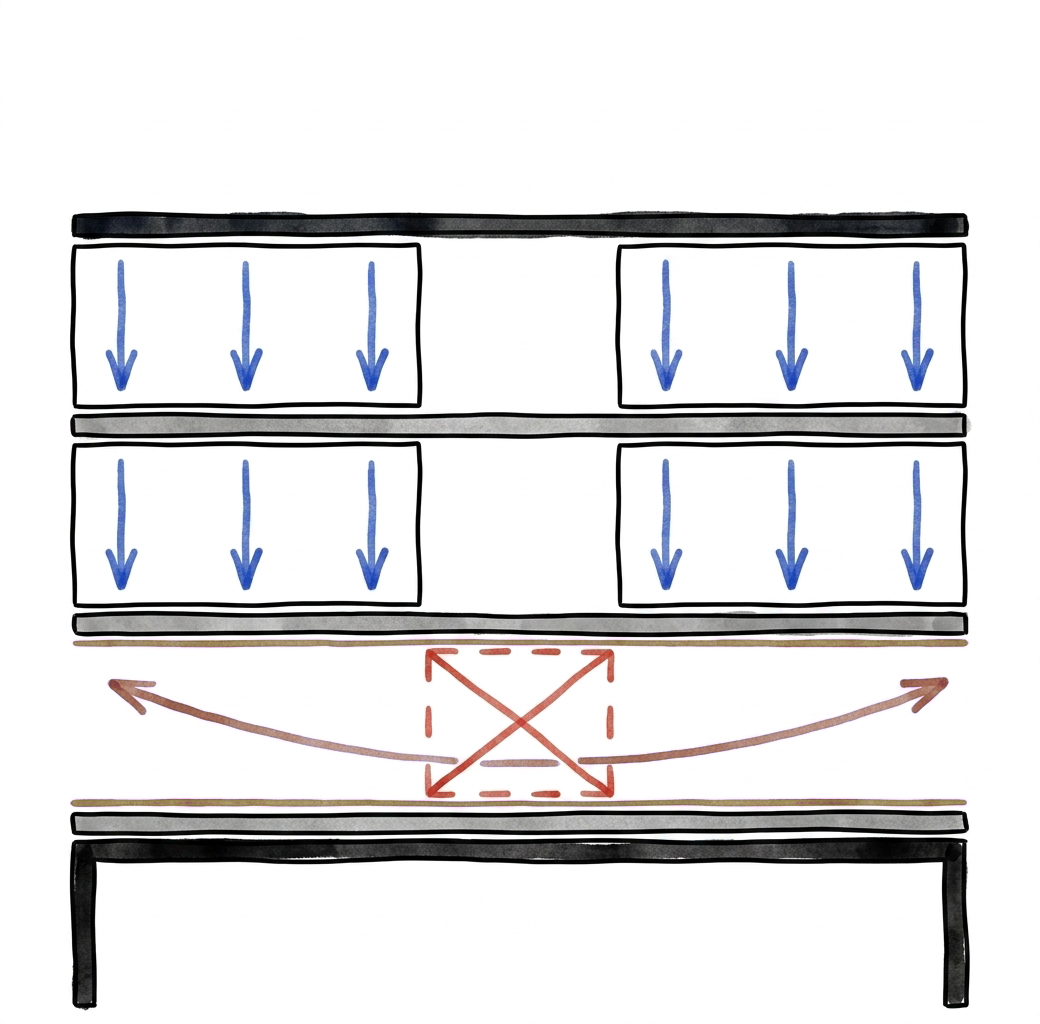
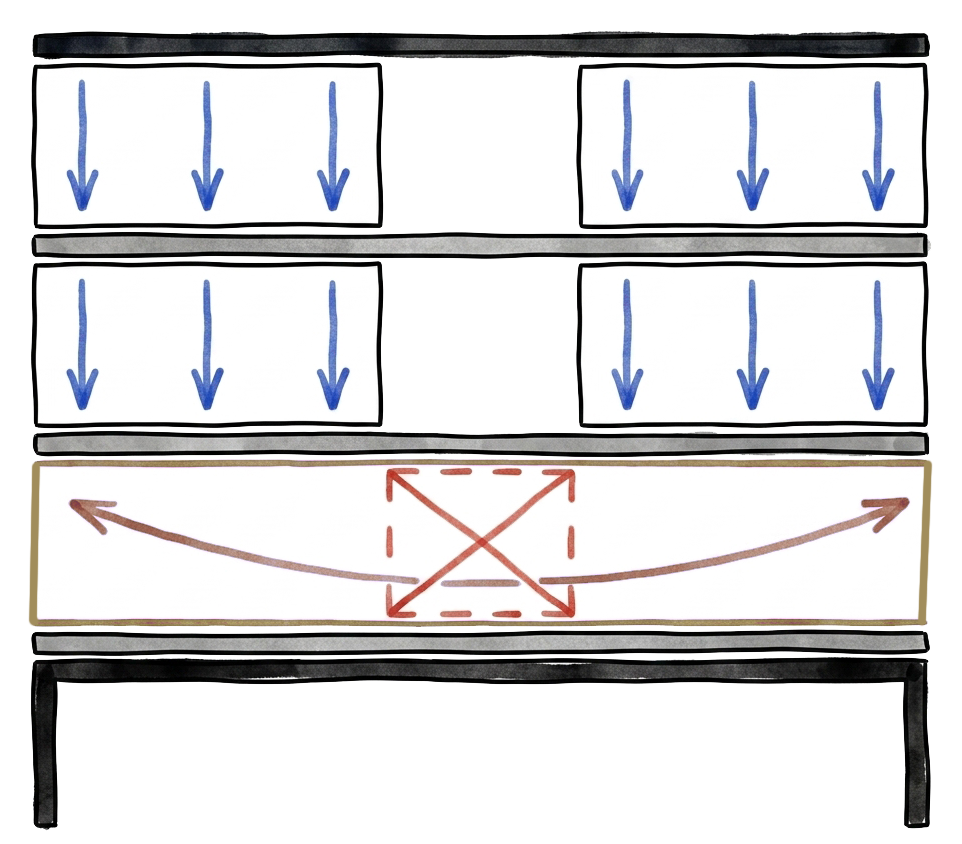
Update deck to v28

diff --git a/index.html b/index.html
@@ -657,10 +657,10 @@
     section[data-label="29 Thank you"][data-deck-active] [data-om-id="b61726ec:1072"]{animation-delay:2.3s;}
   }
 </style>
-  <meta name="deck-version" content="v27">
+  <meta name="deck-version" content="v28">
   <meta name="web-version" content="1.6.0">
-  <meta name="deck-source" content="SpatialTimber Deck v27.html">
-  <meta name="deck-built" content="2026-06-15T08:18:14.796Z">
+  <meta name="deck-source" content="SpatialTimber Deck v28.html">
+  <meta name="deck-built" content="2026-06-15T09:03:42.049Z">
   <link rel="stylesheet" href="fonts.css">
   <style id="om-bullet-fix">/* font-independent eyebrow bullet — Söhne "●" fallback fix */
   .acc.om-acc-dot{display:inline-block;width:.6em;height:.6em;border-radius:50%;background:var(--accent);color:transparent;vertical-align:.02em;overflow:hidden;line-height:0;}</style>
@@ -823,7 +823,7 @@
         <div class="kpi wd-anim wd-d4" data-om-id="b61726ec:106">
           <div class="kpi-tag" data-om-id="b61726ec:107">Sprawl vs. densification</div>
           <div class="kpi-num" data-om-id="b61726ec:108" style="color: rgb(217, 119, 87);"><span class="mono" data-om-id="b61726ec:109">~10</span><span style="font-size:64px; vertical-align:14px;" data-om-id="b61726ec:110"> ×</span></div>
-          <div class="kpi-caption" data-om-id="b61726ec:111">Cities grew outward <span style="color: rgb(20, 20, 19);" data-om-id="978cbabb:149">~10×</span> faster than they densified inward — densification was just ~9 % of Europe's urban land use (2006–2012).</div>
+          <div class="kpi-caption" data-om-id="b61726ec:111">European cities grew outward <span style="color: rgb(20, 20, 19);" data-om-id="978cbabb:149">~10×</span> faster than they densified inward (2006–2012).</div>
         </div>
       </div>
     </div>
@@ -962,13 +962,12 @@
     section[data-deck-slide="17"][data-deck-active] .st-bullets > *:nth-child(4),
     section[data-deck-slide="17"][data-deck-active] .st-bullets > *:nth-child(5){ animation-delay:2.9s; }
 
-    /* 19 Demo current — reliability ceiling / two levers / take-home, ~1s apart */
-    section[data-deck-slide="18"][data-deck-active] .st-bullets > *:nth-child(1){ animation-delay:.9s; }
+    /* 19 Demo current — media box first, then reliability ceiling / two levers / take-home, ~1s apart */
+    section[data-deck-slide="18"][data-deck-active] .st-media{ animation-delay:.2s; }
+    section[data-deck-slide="18"][data-deck-active] .st-bullets > *:nth-child(1){ animation-delay:1.1s; }
     section[data-deck-slide="18"][data-deck-active] .st-bullets > *:nth-child(2),
-    section[data-deck-slide="18"][data-deck-active] .st-bullets > *:nth-child(3){ animation-delay:1.9s; }
-    section[data-deck-slide="18"][data-deck-active] .st-bullets > *:nth-child(4){ animation-delay:2.9s; }
-    /* media box appears last, after all bullets */
-    section[data-deck-slide="18"][data-deck-active] .st-media{ animation-delay:3.6s; }
+    section[data-deck-slide="18"][data-deck-active] .st-bullets > *:nth-child(3){ animation-delay:2.1s; }
+    section[data-deck-slide="18"][data-deck-active] .st-bullets > *:nth-child(4){ animation-delay:3.1s; }
 
     /* 20 Furnishability — intro + check + score, ~1s apart; reference last */
     section[data-deck-slide="19"][data-deck-active] .st-bullets > *:nth-child(1){ animation-delay:.9s; }
@@ -1410,8 +1409,8 @@ We know how to build this.</p>
     <div class="eyebrow mute" data-om-id="b61726ec:362">Adapters — performance gap</div>
     <h1 class="title" style="margin-top:14px; font-style:italic;" data-om-id="b61726ec:363">No answers to imitate? <br data-om-id="b61726ec:364br"><em data-om-id="b61726ec:364">Learn through <span style="color: #d97757" data-om-id="978cbabb:557">feedback.</span></em></h1>
 
-    <div style="flex:1; display:grid; grid-template-columns: 1fr 1.2fr; gap:60px; margin-top:24px; align-items:center;" data-om-id="b61726ec:365">
-      <div class="st16-seq" style="display:flex; flex-direction:column; gap:18px;" data-om-id="b61726ec:366">
+    <div style="flex:1; display:grid; grid-template-columns: 1.2fr 1fr; gap:60px; margin-top:24px; align-items:center;" data-om-id="b61726ec:365">
+      <div class="st16-seq" style="order:2; display:flex; flex-direction:column; gap:18px;" data-om-id="b61726ec:366">
         <p class="body" style="font-size:24px; line-height:1.32; font-style:italic; color:var(--mute);" data-om-id="b61726ec:367">The Swiss dataset teaches the model what a floor plan looks like, not what we consider a good one. </p>
 
         <div class="rule thin" data-om-id="b61726ec:368"></div>
@@ -1435,12 +1434,12 @@ We know how to build this.</p>
             <span class="body" style="font-size:22px; line-height:1.3;" data-om-id="b61726ec:383">Can each room fit the furniture it needs?</span>
           </div>
           <div style="display:grid; grid-template-columns: 220px 1fr; gap:18px; padding:10px 0;" data-om-id="b61726ec:384">
-            <span class="mono" style="font-size:22px; font-weight:700; color:var(--accent);" data-om-id="b61726ec:385">Structural utility<sup style="font-size:13px; font-weight:500;" data-om-id="5969125a:504">2</sup></span>
+            <span class="mono" style="font-size:22px; font-weight:700; color:var(--accent);" data-om-id="b61726ec:385">Structural utility</span>
             <span class="body" style="font-size:22px; line-height:1.3;" data-om-id="b61726ec:386">Are loads carried efficiently by the wall layout?</span>
           </div>
         </div>
 
-        <p class="ph-note" style="margin-top:-4px; font-size:14px; line-height:1.45;" data-om-id="5969125a:506"><sup data-om-id="5969125a:507">1</sup>&nbsp;No off-the-shelf evaluator exists — we develop one in this project. &nbsp;&nbsp;<sup data-om-id="5969125a:508">2</sup>&nbsp;Exists only as FE analysis (minutes per query); we train a surrogate to make it loop-fast.</p>
+        <p class="ph-note" style="margin-top:-4px; font-size:14px; line-height:1.45;" data-om-id="5969125a:506"><sup data-om-id="5969125a:507">1</sup>&nbsp;No off-the-shelf evaluator exists — we develop one in this project.</p>
 
         <div class="rule thin" data-om-id="b61726ec:387"></div>
         <div class="eyebrow" data-om-id="b61726ec:388"><span class="acc om-acc-dot" data-om-id="b61726ec:389">●</span>&nbsp;&nbsp;Fast feedback loop</div>
@@ -1448,7 +1447,7 @@ We know how to build this.</p>
       </div>
 
       <!-- Pictogram: learning through feedback — click / press → cross-fades to annotated diagram -->
-      <div id="s14-media-box" class="st-media" data-s14-state="picto" style="border:1px solid var(--ink); padding:24px 36px; display:flex; flex-direction:column; align-items:stretch; justify-content:center; gap:12px; background:#faf9f5; cursor:pointer;" data-om-id="b61726ec:392">
+      <div id="s14-media-box" class="st-media" data-s14-state="picto" style="order:1; border:1px solid var(--ink); padding:24px 36px; display:flex; flex-direction:column; align-items:stretch; justify-content:center; gap:12px; background:#faf9f5; cursor:pointer;" data-om-id="b61726ec:392">
         <div class="mono mute" style="font-size:16px; letter-spacing:0.12em; display:flex; justify-content:space-between; align-items:center;" data-om-id="b61726ec:393">
           <span id="s14-label-picto" data-om-id="5969125a:516">REINFORCEMENT · LEARN FROM FEEDBACK</span>
           <span id="s14-label-hint" class="mono mute" style="font-size:13px; letter-spacing:0.18em; opacity:0.55;" data-om-id="5969125a:517">CLICK / → TO REVEAL</span>
@@ -1524,22 +1523,22 @@ We know how to build this.</p>
 <!-- =================== DEMO CURRENT (duplicate — restored to original position) =================== -->
 <section data-label="19 Demo current" data-om-id="b61726ec:447" data-screen-label="19 19 Demo current" data-om-validate="no_overflowing_text,no_overlapping_text,slide_sized_text" data-deck-slide="18" data-st-build>
   <div class="chrome-top" data-om-id="b61726ec:448"><span class="wm" data-om-id="b61726ec:449">02 Approach</span><span class="pg" data-om-id="b61726ec:450">19 / 29</span></div>
-  <div class="frame" style="padding-top:96px; padding-bottom:60px;" data-om-id="b61726ec:451">
+  <div class="frame" style="padding-top:88px; padding-bottom:28px;" data-om-id="b61726ec:451">
     <div class="eyebrow mute" data-om-id="b61726ec:454">Where we are today · SpatialTimber Aufstockung Assistent</div>
     <h1 class="title" style="margin-top:14px;" data-om-id="b61726ec:455"><em data-om-id="b61726ec:455e">Early prototype, lessons learned.</em></h1>
 
-    <div style="flex:1; display:grid; grid-template-columns: 1fr 1.37fr; gap:60px; margin-top:30px; min-height:0;" data-om-id="b61726ec:452">
+    <div style="flex:1; display:grid; grid-template-columns: 1.55fr 1fr; gap:60px; margin-top:22px; min-height:0;" data-om-id="b61726ec:452">
       <!-- LEFT: demonstrator media box (empty placeholder, full size — matches previous slide) -->
-      <div class="st-media" style="order:2; display:flex; flex-direction:column; align-items:flex-end; justify-content:center; gap:6px; min-height:0;" data-om-id="b61726ec:453">
-        <div id="demo-media-stage" style="position:relative; display:inline-flex; max-width:100%; max-height:100%; border:1.5px solid var(--ink); border-radius:22px; overflow:hidden; background:#141413; cursor:pointer;" data-om-id="b61726ec:457">
-          <video src="assets/demonstrator_short_v1.mp4" autoplay="" loop="" muted="" playsinline="" preload="auto" poster="assets/demonstrator_short_v1_poster.jpg" aria-label="SpatialTimber Aufstockung Assistent demonstrator — screen recording" style="display:block; max-width:100%; max-height:100%; width:auto; height:auto; object-fit:contain;" data-om-id="978cbabb:677v"></video>
+      <div class="st-media" style="order:1; display:flex; flex-direction:column; align-items:flex-start; justify-content:center; gap:8px; min-height:0;" data-om-id="b61726ec:453">
+        <div id="demo-media-stage" style="position:relative; flex:1 1 0; min-height:0; aspect-ratio:1510 / 1086; max-width:100%; display:flex; align-items:center; justify-content:center; border:1.5px solid var(--ink); border-radius:22px; overflow:hidden; background: rgb(255, 255, 255); cursor:pointer;" data-om-id="b61726ec:457">
+          <video src="assets/demonstrator_short_v1.mp4" autoplay="" loop="" muted="" playsinline="" preload="auto" poster="assets/demonstrator_short_v1_poster.jpg" aria-label="SpatialTimber Aufstockung Assistent demonstrator — screen recording" style="display:block; width:100%; height:100%; object-fit:cover;" data-om-id="978cbabb:677v"></video>
           <div id="demo-chart-overlay" data-om-validate="false" aria-hidden="true" data-om-id="978cbabb:679"><svg class="fvc-svg" viewBox="0 0 1976 1080" preserveAspectRatio="xMidYMid meet"><line class="fvc-grid" x1="241" y1="950.0" x2="1735" y2="950.0"></line><text class="fvc-tick" x="219" y="958.0" text-anchor="end">0%</text><line class="fvc-grid" x1="241" y1="762.8" x2="1735" y2="762.8"></line><text class="fvc-tick" x="219" y="770.8" text-anchor="end">25%</text><line class="fvc-grid" x1="241" y1="575.5" x2="1735" y2="575.5"></line><text class="fvc-tick" x="219" y="583.5" text-anchor="end">50%</text><line class="fvc-grid" x1="241" y1="388.3" x2="1735" y2="388.3"></line><text class="fvc-tick" x="219" y="396.3" text-anchor="end">75%</text><line class="fvc-grid" x1="241" y1="201.0" x2="1735" y2="201.0"></line><text class="fvc-tick" x="219" y="209.0" text-anchor="end">100%</text><text class="fvc-tick" x="241.0" y="1000" text-anchor="middle">1</text><text class="fvc-tick" x="376.8" y="1000" text-anchor="middle">2</text><text class="fvc-tick" x="512.6" y="1000" text-anchor="middle">3</text><text class="fvc-tick" x="648.5" y="1000" text-anchor="middle">4</text><text class="fvc-tick" x="784.3" y="1000" text-anchor="middle">5</text><text class="fvc-tick" x="920.1" y="1000" text-anchor="middle">6</text><text class="fvc-tick" x="1055.9" y="1000" text-anchor="middle">7</text><text class="fvc-tick" x="1191.7" y="1000" text-anchor="middle">8</text><text class="fvc-tick" x="1327.5" y="1000" text-anchor="middle">9</text><text class="fvc-tick" x="1463.4" y="1000" text-anchor="middle">10</text><text class="fvc-tick" x="1599.2" y="1000" text-anchor="middle">11</text><text class="fvc-tick" x="1735.0" y="1000" text-anchor="middle">12</text><line class="fvc-axis" x1="241" y1="201" x2="241" y2="950"></line><line class="fvc-axis" x1="241" y1="950" x2="1735" y2="950"></line><text class="fvc-axtitle" transform="translate(96,575.5) rotate(-90)" text-anchor="middle">Validity</text><text class="fvc-axtitle" x="1735" y="1058" text-anchor="end">Number of apartments →</text><path class="fvc-area" d="M241.0 350.8L376.8 470.6L512.6 566.5L648.5 643.2L784.3 704.6L920.1 753.7L1055.9 792.9L1191.7 824.3L1327.5 849.5L1463.4 869.6L1599.2 885.7L1735.0 898.5L1735.0 950.0L241.0 950.0Z"></path><path class="fvc-curve" d="M241.0 350.8L376.8 470.6L512.6 566.5L648.5 643.2L784.3 704.6L920.1 753.7L1055.9 792.9L1191.7 824.3L1327.5 849.5L1463.4 869.6L1599.2 885.7L1735.0 898.5"></path><circle class="fvc-dot-hero" cx="241.0" cy="350.8" r="18"></circle><circle class="fvc-dot" cx="376.8" cy="470.6" r="11"></circle><circle class="fvc-dot" cx="512.6" cy="566.5" r="11"></circle><circle class="fvc-dot" cx="648.5" cy="643.2" r="11"></circle><circle class="fvc-dot" cx="784.3" cy="704.6" r="11"></circle><circle class="fvc-dot" cx="920.1" cy="753.7" r="11"></circle><circle class="fvc-dot" cx="1055.9" cy="792.9" r="11"></circle><circle class="fvc-dot" cx="1191.7" cy="824.3" r="11"></circle><circle class="fvc-dot" cx="1327.5" cy="849.5" r="11"></circle><circle class="fvc-dot" cx="1463.4" cy="869.6" r="11"></circle><circle class="fvc-dot" cx="1599.2" cy="885.7" r="11"></circle><circle class="fvc-dot-hero" cx="1735.0" cy="898.5" r="18"></circle></svg><div class="fvc-hero"><div class="fvc-block"><div class="fvc-stepper" data-stop=""><button class="fvc-btn fvc-minus" aria-label="decrease">−</button><div class="fvc-num"><span class="fvc-val fvc-heroval">80</span><span class="fvc-pct">%</span></div><button class="fvc-btn fvc-plus" aria-label="increase">+</button></div><div class="fvc-cap">per apartment</div></div><div class="fvc-arrow"><span class="glyph">→</span><span class="note">across 12 units</span></div><div class="fvc-block fvc-result"><div class="fvc-num"><span class="fvc-val fvc-take-build">7</span><span class="fvc-pct">%</span></div><div class="fvc-cap">whole building</div></div></div><div class="fvc-hint"><span class="d"></span>click box to resume demonstrator</div></div>
         </div>
-        <div class="demo-caption mono mute" data-om-id="b61726ec:453cap" style="font-size:16px; letter-spacing:0.12em; margin-right:24px;">AUFSTOCKUNG DEMONSTRATOR</div>
+        <div class="demo-caption mono mute" data-om-id="b61726ec:453cap" style="font-size:16px; letter-spacing:0.12em; align-self:flex-start; flex:0 0 auto;">AUFSTOCKUNG DEMONSTRATOR</div>
       </div>
 
       <!-- RIGHT: lessons-learned bullets -->
-      <div class="st-bullets" style="order:1; display:flex; flex-direction:column; gap:20px;" data-om-id="978cbabb:680">
+      <div class="st-bullets" style="order:2; display:flex; flex-direction:column; gap:20px;" data-om-id="978cbabb:680">
         <div data-om-id="978cbabb:681">
           <div class="eyebrow" data-om-id="978cbabb:682"><span class="acc om-acc-dot" data-om-id="978cbabb:683">●</span>&nbsp;&nbsp;The reliability ceiling</div>
           <div style="display:flex; flex-direction:column; gap:11px; margin-top:12px; margin-left:28px;" data-comment-anchor="ed33cc4627-p" data-om-id="978cbabb:684">
@@ -1940,8 +1939,7 @@ We know how to build this.</p>
     <div style="display:flex; justify-content:space-between; align-items:baseline; gap:40px;" data-om-id="978cbabb:1096">
       <div data-om-id="978cbabb:1097">
         <div class="eyebrow mute" data-om-id="978cbabb:1098">OUTCOME (SECONDARY) · STRUCTURAL PERFORMANCE SURROGATE</div>
-        <h1 class="title" style="margin-top:14px; font-style:italic;" data-om-id="978cbabb:1099"><span style="color: #d97757">Beyond FEM,</span>
-things we couldn't do before.</h1>
+        <h1 class="title" style="margin-top:14px; font-style:italic;" data-om-id="978cbabb:1099"><span style="color: #d97757">Beyond FEM.</span> <br data-om-id="978cbabb:1099br">Things we couldn't do before.</h1>
       </div>
     </div>
 
@@ -3061,7 +3059,7 @@ things we couldn't do before.</h1>
     </div>
     <div class="st-bottom">
       <div class="st-progress"><div class="bar"></div></div>
-      <div class="st-meta"><span>Zukunft Bau Projekttage 2026</span><span class="st-loading">Loading</span></div>
+      <div class="st-meta"><span>Zukunft Bau Projekttage 2026</span></div>
     </div>
   </div>
 </div>
